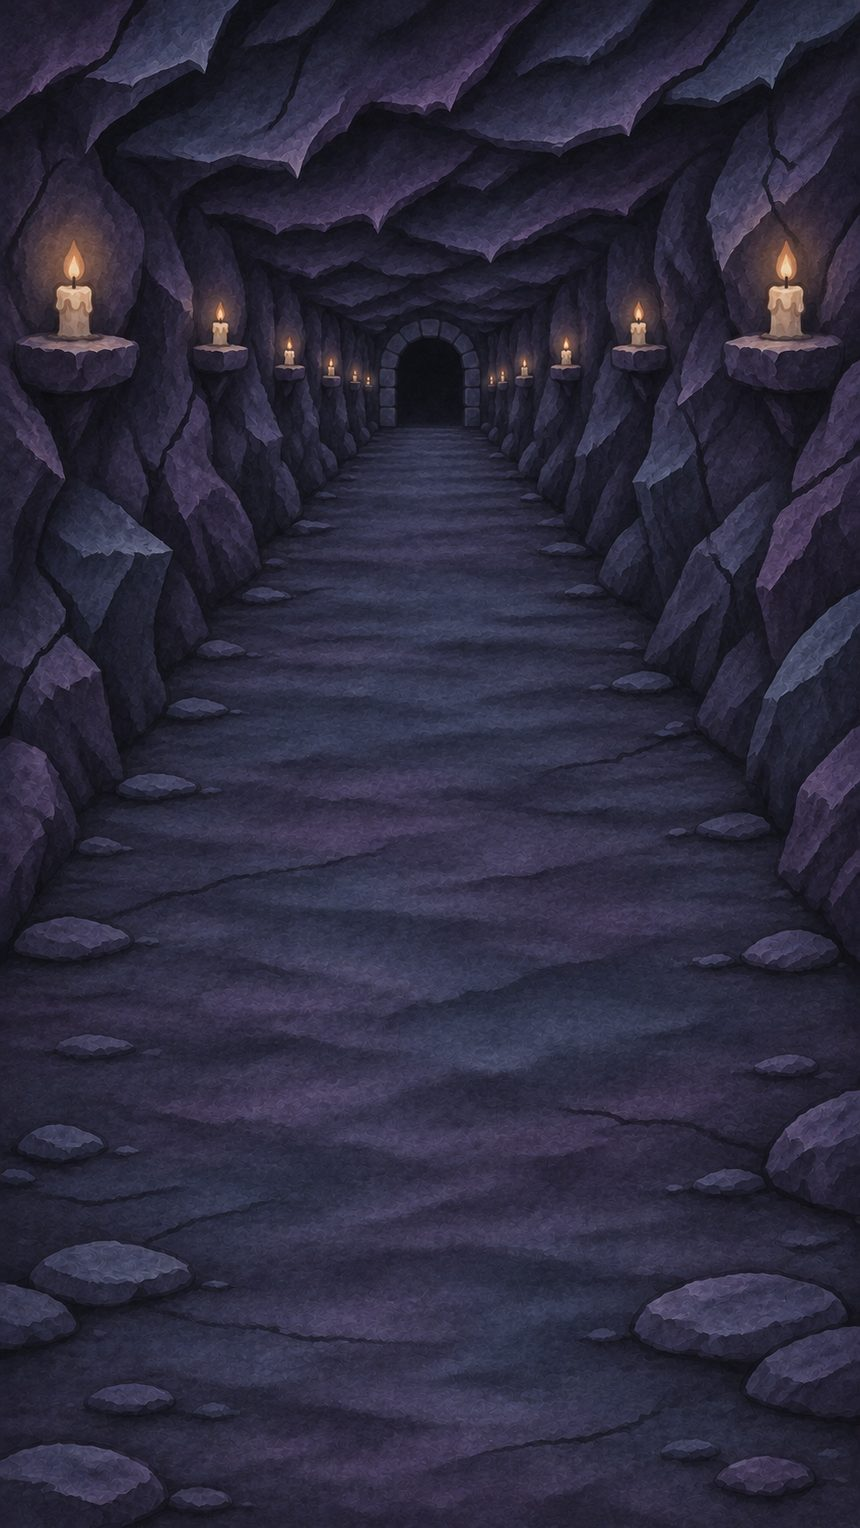
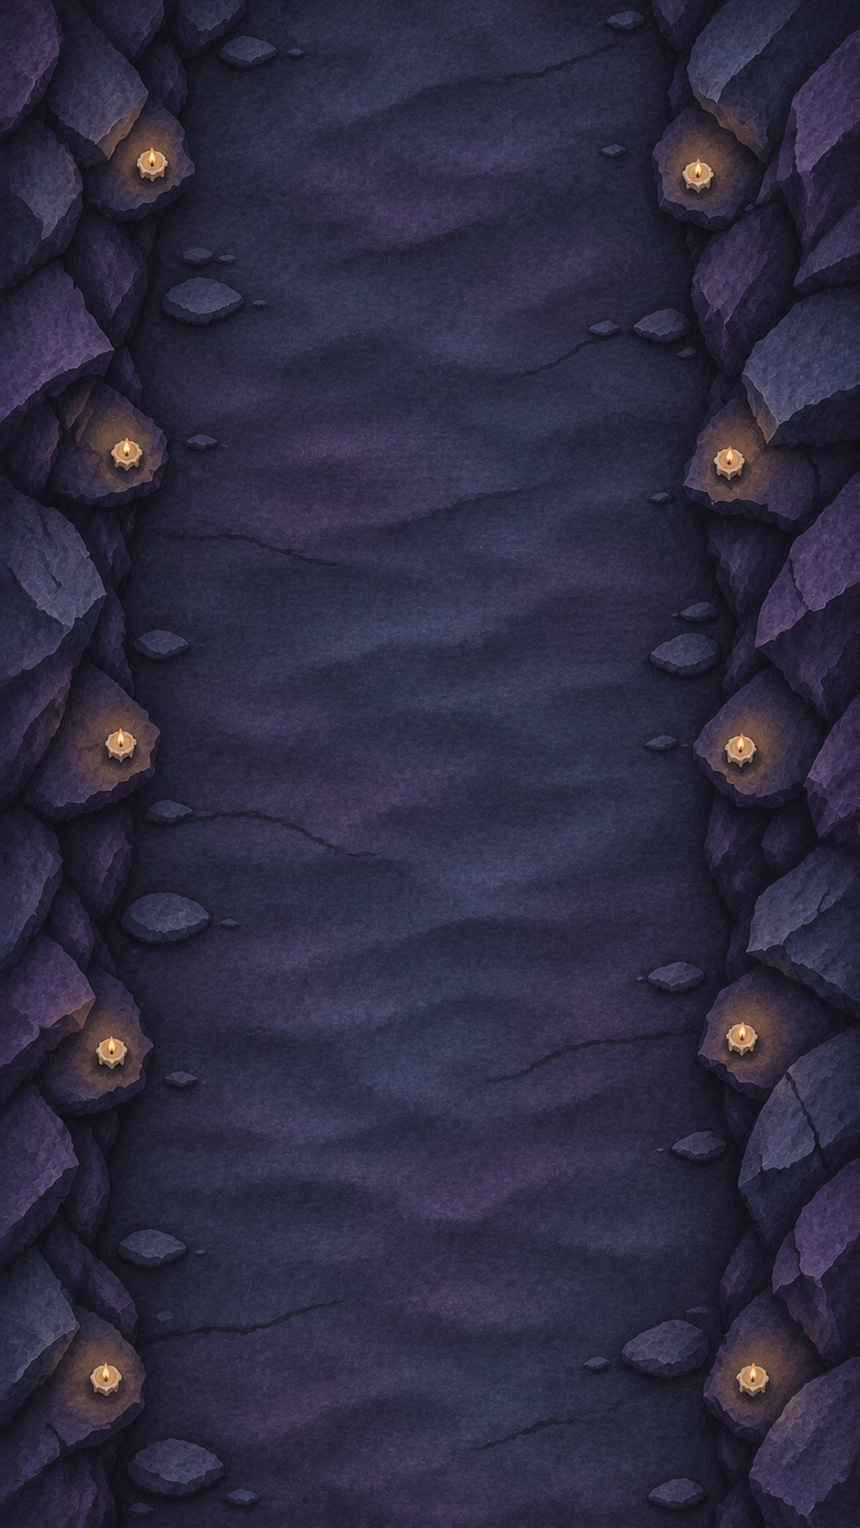
鬼が出ていないとき「？」の鬼を表示、背景とタイトル画像を差し替え

diff --git a/style.css b/style.css
@@ -173,6 +173,7 @@ body {
   background: transparent;           /* ふだんは枠も背景も透明（ぶつかったときだけ .is-hit で赤くなる） */
   border: 2px solid transparent;     /* 枠の太さは残して、赤くなったときにマスがずれないようにする */
   border-radius: 12px;
+  position: relative; /* 「？」の鬼を、マスの上側に置くための基準 */
 }
 
 .allies {
@@ -443,4 +444,15 @@ body {
   .btn-sub { transition: none; }
   .btn-main:active,
   .btn-sub:active { transform: none; }
+}
+
+/* 鬼がまだ出ていないときの「？」の鬼：各マスの上側（桃太郎から見て前方）に置く */
+.unknown-img {
+  position: absolute;
+  top: 2%;
+  left: 50%;
+  transform: translateX(-50%);
+  width: min(75%, 19cqh);
+  height: auto;
+  object-fit: contain;
 }

diff --git a/game.js b/game.js
@@ -271,6 +271,12 @@ function renderLanes() {
     const isHitLane = state.lastResult !== null && state.lastResult.isHit && state.lastResult.enemyLane === i;
     $lane.toggleClass('is-hit', isHitLane);
 
+    // まだ鬼が出ていないとき（ステージの最初など）は、3マスとも上側に「？」の鬼を出して、
+    // 次にどのマスへ何が来るか分からないことを、プレイヤーに見せる
+    if (state.lastResult === null) {
+      $lane.append($('<img class="unknown-img">').attr('src', CONFIG.images.enemyUnknown).attr('alt', '？'));
+    }
+
     // 鬼がいるマスなら、鬼を出す
     if (state.lastResult !== null && state.lastResult.enemyLane === i) {
       const enemy = state.lastResult.enemy;

diff --git a/config.js b/config.js
@@ -32,6 +32,7 @@ const CONFIG = {
   // 画像のファイル名をまとめた設定。画像を差し替えるときは、ここだけを書き換える
   images: {
     playerBack: 'img/img_player_back.png',  // 選んだマスに立つ桃太郎
+    enemyUnknown: 'img/oni_unknown.png',    // 鬼がまだ出ていないとき、各マスの上側に出す「？」の鬼
     faces: {                                // 顔アイコン（初期＝normal、当たり＝pain、回避＝happy）
       normal: 'img/img_face_normal.png',
       pain:   'img/img_face_pain.png',

diff --git a/docs/spec.md b/docs/spec.md
@@ -1,6 +1,6 @@
 # 桃太郎の鬼退治（じゃんけんアプリ リッチ版）仕様書 v1.2
 
-- 作成日：2026-11-08（v1.1：仲間表示を顔アイコンに変更、画像の組み込みを範囲に追加し付録 `docs/images.md` を作成。v1.2：画像の組み込み・見た目の調整・CSSアニメーションを反映して、実装の現状に合わせた）
+- 作成日：2026-11-08（v1.1：仲間表示を顔アイコンに変更、画像の組み込みを範囲に追加し付録 `docs/images.md` を作成。v1.2：画像の組み込み・見た目の調整・CSSアニメーションを反映して、実装の現状に合わせた。鬼が出ていないときの「？」の鬼を追加）
 - 提出期限：2026-11-12（木）
 - 対象範囲：**必須＋ラスボス戦**（アイテムは「できれば」）。画像は生成済みで、`docs/images.md` のバッチ1〜3まで組み込み済み
 
@@ -93,7 +93,7 @@
 |---|---|
 | ヘッダー | 左：「ステージ 2」（ボス戦中は「ボス戦」）、右：[タイトルへ]（背景 `#F2DFBB`） |
 | 進捗バー | 0〜10歩の横バーと「4 / 10歩」の表示。ボス戦中は「ボスの体力」バーに切り替える（300が満タン） |
-| プレイエリア | 3マスを横に並べる（背景は道の画像。ボス戦は洞窟の画像）。各マスに「鬼の画像」または「桃太郎の後ろ姿」を表示。鬼とプレイヤーが同じマスなら両方を表示する。マスの枠と背景は透明で、**ぶつかったマスだけ赤**にする。マスの名前（左・中央・右）の文字は表示しない。画像はマスの幅より大きく表示してよい（鬼・桃太郎は約120%、仲間がいるときの桃太郎は約135%、ボスは約210%。マスが低いときは高さに合わせて縮める）。**ボスが左右のマスにいるとき、画像が画面の端で切れてもよい** |
+| プレイエリア | 3マスを横に並べる（背景は道の画像。ボス戦は洞窟の画像）。各マスに「鬼の画像」または「桃太郎の後ろ姿」を表示。鬼とプレイヤーが同じマスなら両方を表示する。マスの枠と背景は透明で、**ぶつかったマスだけ赤**にする。マスの名前（左・中央・右）の文字は表示しない。**鬼がまだ出ていないとき（ステージの開始、リトライ、ボス戦の開始直後）は、3マスとも上側（桃太郎から見て前方）に「？」の鬼（`img/oni_unknown.png`）を出し、何がどこに来るか分からないことを示す。ボタンを押すと消える**。画像はマスの幅より大きく表示してよい（鬼・桃太郎は約120%、仲間がいるときの桃太郎は約135%、ボスは約210%。マスが低いときは高さに合わせて縮める）。**ボスが左右のマスにいるとき、画像が画面の端で切れてもよい** |
 | 仲間表示 | 「仲間：」のあとに、仲間になったキャラの**顔アイコン**を並べる（いなければ「なし」）。画像の詳細は `docs/images.md` を参照 |
 | メッセージ | 例：「青鬼にぶつかった！ 体力-10、1歩後退」「かわした！ 1歩前進」「反撃！ ボスに20のダメージ」 |
 | 顔アイコン | 円の中に桃太郎の顔画像を表示：当たり＝痛い顔、回避＝嬉しい顔、初期＝普通の顔 |
@@ -145,6 +145,7 @@ const CONFIG = {
   // 画像のファイル名をまとめた設定。画像を差し替えるときは、ここだけを書き換える
   images: {
     playerBack: 'img/img_player_back.png',  // 選んだマスに立つ桃太郎
+    enemyUnknown: 'img/oni_unknown.png',    // 鬼がまだ出ていないとき、各マスの上側に出す「？」の鬼
     faces: {                                // 顔アイコン（初期＝normal、当たり＝pain、回避＝happy）
       normal: 'img/img_face_normal.png',
       pain:   'img/img_face_pain.png',
@@ -260,7 +261,7 @@ let state = {
 | `render()` | ゲーム画面全体を更新する（下の関数をまとめて呼ぶ） |
 | `renderHeader()` | ステージ名（ボス戦中は「ボス戦」） |
 | `renderProgress()` | 進捗バー（ボス戦中はボスの体力バー） |
-| `renderLanes()` | 3マスに、鬼の画像とプレイヤー（桃太郎＋仲間の後ろ姿）を表示。ぶつかったマスには `is-hit` クラスを付ける |
+| `renderLanes()` | 3マスに、鬼の画像とプレイヤー（桃太郎＋仲間の後ろ姿）を表示。ぶつかったマスには `is-hit` クラスを付ける。鬼がまだ出ていないときは、3マスの上側に「？」の鬼を出す |
 | `renderBackground()` | プレイエリアの背景画像（通常ステージ／ボス戦で切り替え） |
 | `renderSceneImages()` | タイトル・ゲームオーバー・エンディングの画像を設定（起動時に1回） |
 | `renderHp()` | 体力ゲージ |
